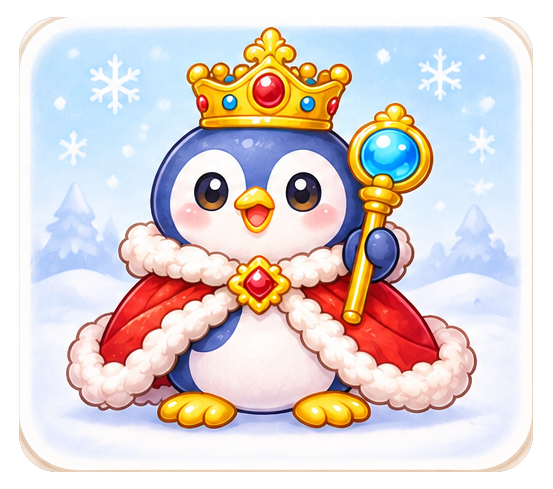
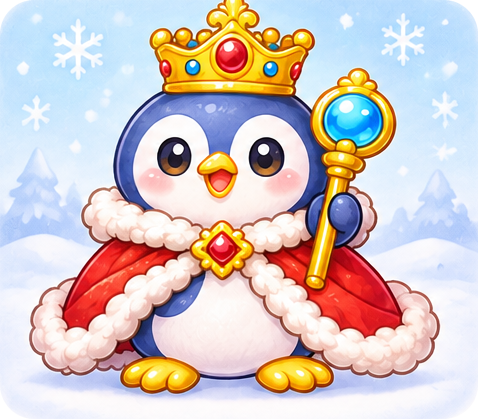
トップのカードの絵の角の薄いわくを消す
Claude-Session: https://claude.ai/code/session_01UiPSEer8fJK53joirGFQvZ

diff --git a/learn.html b/learn.html
@@ -399,7 +399,7 @@ function home(){
       ks.map(k=>`<button class="tile ${L[k]?"done":""} ${k===nk?"next":""}" data-k="${k}" aria-label="${k}${L[k]?"（おぼえた）":""}">${k}${star(k)}</button>`).join("")+`</div></section>`;
   }
   app.innerHTML=`<div class="top"><a class="pill" href="./">‹ キャラをえらぶ</a><span class="spacer"></span><button class="pill" id="boxBtn">${CHAR.boxE} ${CHAR.box}（${ownedCount()+Object.keys(SP).length}）</button></div>
-  <div class="hero"><img src="chara-${CH}.png?v=7" alt=""><div><h1>${CHAR.name} ${GRADE}年生<br>おぼえる</h1><p>おぼえた かんじ <b>${n}</b> / ${KS.length}${nk?`・いまは「${placeName(chapOf(nk))}」`:""}</p><div class="bar"><i style="width:${n/KS.length*100}%"></i></div></div></div>
+  <div class="hero"><img src="chara-${CH}.png?v=8" alt=""><div><h1>${CHAR.name} ${GRADE}年生<br>おぼえる</h1><p>おぼえた かんじ <b>${n}</b> / ${KS.length}${nk?`・いまは「${placeName(chapOf(nk))}」`:""}</p><div class="bar"><i style="width:${n/KS.length*100}%"></i></div></div></div>
   <div class="modes"><button class="on" aria-current="page">📖 おぼえる</button><a href="${CH}-${KYU}.html">✏ クイズ</a></div>
   <div class="gift-meter"><span>${CHAR.boxE}</span><span>あと <b>${PER_ITEM-(n%PER_ITEM)}</b>字 れんしゅうすると アイテム！</span>${(()=>{const m=n%PER_ITEM;return `<div class="pips">${Array.from({length:PER_ITEM},(_,i)=>`<i class="${i<m?"on":""}"></i>`).join("")}</div>`;})()}</div>
   ${nk?`<button class="btn pri" id="goNext" style="padding:14px;font-size:1.1rem">つぎの かんじ「${nk}」を おぼえる ›</button>`:`<p class="msg ok">ぜんぶ おぼえたね！ クイズに ちょうせんしよう！</p>`}
@@ -416,7 +416,7 @@ function box(){
   const all=CHAR.items;
   const spList=Object.entries(SP);
   app.innerHTML=`<div class="top"><button class="pill" id="back">‹ もどる</button></div>
-  <div class="hero"><img src="chara-${CH}.png?v=7" alt=""><div><h1>${CHAR.boxE} ${CHAR.box}</h1><p>かんじを 5つ しっかり れんしゅうすると アイテムが 1つ。ひとつの ばしょの かんじを ぜんぶ おぼえると とくべつアイテム！</p></div></div>
+  <div class="hero"><img src="chara-${CH}.png?v=8" alt=""><div><h1>${CHAR.boxE} ${CHAR.box}</h1><p>かんじを 5つ しっかり れんしゅうすると アイテムが 1つ。ひとつの ばしょの かんじを ぜんぶ おぼえると とくべつアイテム！</p></div></div>
   <section class="card"><h3>とくべつアイテム（${spList.length}）</h3><div class="shelf">${CHAR.special.map((x,i)=>{ const has=spList.some(([id,j])=>j===i); return has?`<div class="it sp">${x[0]}<small>${x[1]}</small></div>`:`<div class="it no">？</div>`; }).join("")}</div></section>
   <section class="card"><h3>アイテム（${Object.keys(IT).length} / ${all.length}しゅるい）</h3><div class="shelf">${all.map((x,i)=>IT[i]?`<div class="it">${IT[i]>1?`<span class="n">×${IT[i]}</span>`:""}${x[0]}<small>${x[1]}</small></div>`:`<div class="it no">？</div>`).join("")}</div></section>`;
   $("#back").onclick=home; scrollTo(0,0);
@@ -446,7 +446,7 @@ function lesson(k){
     scrollTo(0,0);
   }
   const unlock=()=>{ done[step]=true; $("#next").disabled=false; };
-  const talk=t=>`<div class="talk"><img src="chara-${CH}.png?v=7" alt=""><p>${t}</p></div>`;
+  const talk=t=>`<div class="talk"><img src="chara-${CH}.png?v=8" alt=""><p>${t}</p></div>`;
   const pips=(n,need)=>`<div class="pips" aria-label="${n}/${need}">${Array.from({length:need},(_,i)=>`<i class="${i<n?"on":""}"></i>`).join("")}</div>`;
   const msgFn=(t,c)=>{ const m=$("#msg"); if(m){ m.textContent=t; m.className="msg "+c; } };
   function show(){

diff --git a/sw.js b/sw.js
@@ -1,6 +1,6 @@
 // かんじフレンズ：オフラインでも遊べるようにするしくみ
 // ゲームを直したら VERSION を上げると、つぎに開いたとき新しい版に入れかわります
-const VERSION = "nakama-v71";
+const VERSION = "nakama-v72";
 const CORE = ["./", "./index.html", "./manifest.webmanifest", "./icon-192.png", "./icon-512.png", "./icon-maskable-512.png", "./apple-touch-icon.png", "./chara-pirate.png", "./chara-dragon.png", "./chara-hamster.png", "./chara-unicorn.png", "./pirate-10.html", "./pirate-9.html", "./pirate-8.html", "./pirate-7.html", "./pirate-6.html", "./pirate-5.html", "./dragon-10.html", "./dragon-9.html", "./dragon-8.html", "./dragon-7.html", "./dragon-6.html", "./dragon-5.html", "./hamster-10.html", "./hamster-9.html", "./hamster-8.html", "./hamster-7.html", "./hamster-6.html", "./hamster-5.html", "./unicorn-10.html", "./unicorn-9.html", "./unicorn-8.html", "./unicorn-7.html", "./unicorn-6.html", "./unicorn-5.html", "./learn.html", "./pay.js?v=1", "./evo/dragon-0.webp", "./evo/dragon-1.webp", "./evo/dragon-10.webp", "./evo/dragon-11.webp", "./evo/dragon-12.webp", "./evo/dragon-13.webp", "./evo/dragon-14.webp", "./evo/dragon-2.webp", "./evo/dragon-3.webp", "./evo/dragon-4.webp", "./evo/dragon-5.webp", "./evo/dragon-6.webp", "./evo/dragon-7.webp", "./evo/dragon-8.webp", "./evo/dragon-9.webp", "./evo/hamster-0.webp", "./evo/hamster-1.webp", "./evo/hamster-10.webp", "./evo/hamster-11.webp", "./evo/hamster-12.webp", "./evo/hamster-13.webp", "./evo/hamster-14.webp", "./evo/hamster-2.webp", "./evo/hamster-3.webp", "./evo/hamster-4.webp", "./evo/hamster-5.webp", "./evo/hamster-6.webp", "./evo/hamster-7.webp", "./evo/hamster-8.webp", "./evo/hamster-9.webp", "./evo/pirate-0.png", "./evo/pirate-0.webp", "./evo/pirate-1.webp", "./evo/pirate-10.webp", "./evo/pirate-11.webp", "./evo/pirate-12.webp", "./evo/pirate-13.webp", "./evo/pirate-14.webp", "./evo/pirate-2.webp", "./evo/pirate-3.webp", "./evo/pirate-4.webp", "./evo/pirate-5.webp", "./evo/pirate-6.webp", "./evo/pirate-7.webp", "./evo/pirate-8.webp", "./evo/pirate-9.webp", "./evo/unicorn-0.webp", "./evo/unicorn-1.webp", "./evo/unicorn-10.webp", "./evo/unicorn-11.webp", "./evo/unicorn-12.webp", "./evo/unicorn-13.webp", "./evo/unicorn-14.webp", "./evo/unicorn-2.webp", "./evo/unicorn-3.webp", "./evo/unicorn-4.webp", "./evo/unicorn-5.webp", "./evo/unicorn-6.webp", "./evo/unicorn-7.webp", "./evo/unicorn-8.webp", "./evo/unicorn-9.webp", "./cut/dragon-0.webp", "./cut/dragon-1.webp", "./cut/hamster-0.webp", "./cut/hamster-1.webp", "./cut/pirate-0.webp", "./cut/pirate-1.webp", "./cut/unicorn-0.webp", "./cut/unicorn-1.webp", "./play/card-igloo.webp", "./play/card-q.webp", "./play/fish0.webp", "./play/fish1.webp", "./play/fish2.webp", "./play/fish4.webp", "./play/fish5.webp", "./play/igloo.webp", "./play/nightsky.webp", "./play/star.webp", "./play/target.webp", "./play/tr-dug.webp", "./play/tr-gold.webp", "./play/tr-hot.webp", "./play/tr-sand.webp", "./learn-1.js?v=1", "./learn-2.js?v=1", "./learn-3.js?v=1", "./learn-4.js?v=1", "./learn-5.js?v=1", "./learn-6.js?v=1"];
 
 self.addEventListener("install", e => {

diff --git a/index.html b/index.html
@@ -159,7 +159,7 @@ function info(c,k){
 function render(open){
   $("grid").after($("panel"));
   $("grid").innerHTML = CHARS.map(c=>`<button type="button" class="chara ${c.id}" data-id="${c.id}" aria-expanded="${open===c.id}">
-      <img src="chara-${c.id}.png?v=7" alt="" width="366" height="322"><b>${c.name}</b><small>${GR[c.kyus[0]]}〜${GR[c.kyus[c.kyus.length-1]]}年生</small></button>`).join("");
+      <img src="chara-${c.id}.png?v=8" alt="" width="366" height="322"><b>${c.name}</b><small>${GR[c.kyus[0]]}〜${GR[c.kyus[c.kyus.length-1]]}年生</small></button>`).join("");
   $("grid").querySelectorAll(".chara").forEach(b=>b.addEventListener("click",()=>{ const id=b.dataset.id; render(open===id?null:id); if(open!==id) $("panel").scrollIntoView({behavior:"smooth",block:"nearest"}); }));
   const c=CHARS.find(x=>x.id===open);
   $("panel").hidden=!c;
@@ -180,10 +180,10 @@ const L=last(), lm=L&&L.match(/^learn:(pirate|dragon|hamster|unicorn)-([1-6])$/)
 const m=L&&L.match(/^(pirate|dragon|hamster|unicorn)-(10|9|8|7|6|5)$/), lc=m&&CHARS.find(c=>c.id===m[1]&&c.kyus.includes(m[2]));
 if(lm){ const c=CHARS.find(x=>x.id===lm[1]), k={"1":"10","2":"9","3":"8","4":"7","5":"6","6":"5"}[lm[2]];
   $("cont").hidden=false; $("cont").href=`learn.html?c=${c.id}&g=${lm[2]}`; $("cont").className="cont "+c.id;
-  $("cont").innerHTML=`<img src="chara-${c.id}.png?v=7" alt="" width="84" height="68"><div><b>つづきから：${c.name} ${lm[2]}年生</b><span>📖 おぼえる（${learnInfo(c,k)} / ${NK[k]}字）</span></div><i>›</i>`;
+  $("cont").innerHTML=`<img src="chara-${c.id}.png?v=8" alt="" width="84" height="68"><div><b>つづきから：${c.name} ${lm[2]}年生</b><span>📖 おぼえる（${learnInfo(c,k)} / ${NK[k]}字）</span></div><i>›</i>`;
 }else if(lc){
   $("cont").hidden=false; $("cont").href=L+".html"; $("cont").className="cont "+lc.id;
-  $("cont").innerHTML=`<img src="chara-${lc.id}.png?v=7" alt="" width="84" height="68"><div><b>つづきから：${lc.name} ${GR[m[2]]}年生</b><span>✏ クイズ・${info(lc,m[2]).replace(/<\/?b>/g,"")}</span></div><i>›</i>`;
+  $("cont").innerHTML=`<img src="chara-${lc.id}.png?v=8" alt="" width="84" height="68"><div><b>つづきから：${lc.name} ${GR[m[2]]}年生</b><span>✏ クイズ・${info(lc,m[2]).replace(/<\/?b>/g,"")}</span></div><i>›</i>`;
 }
 render(null);
 // 有料のしくみ（アプリのときだけ）：買う・購入を復元
